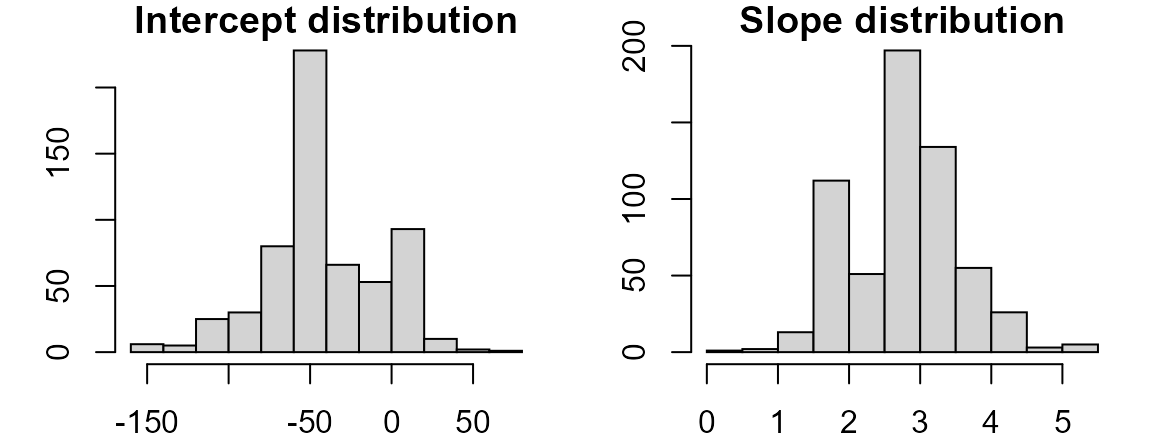
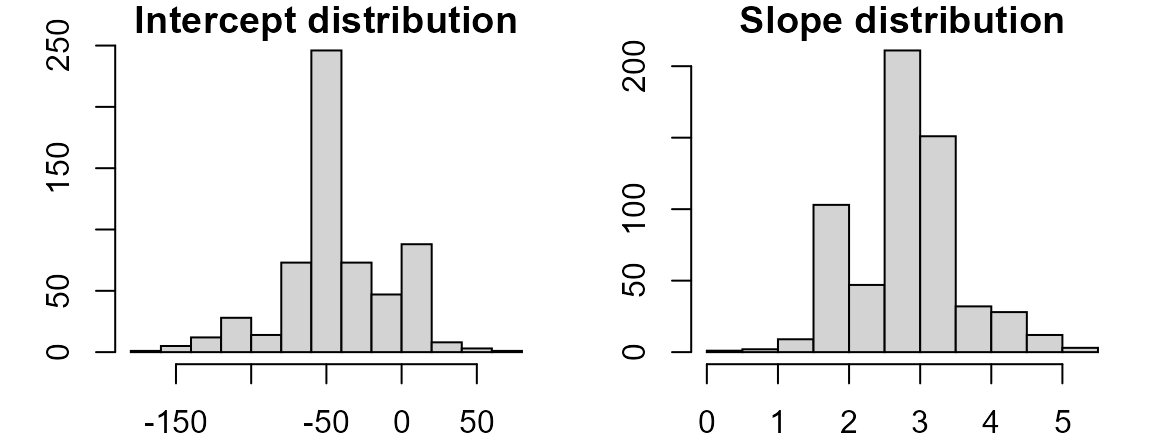
Edited Description

diff --git a/docs/articles/RLine.html b/docs/articles/RLine.html
@@ -282,9 +282,9 @@ median(y_{l,m,r} - b * x_{l,m,r})
 <code class="sourceCode R"><span class="va">conf</span> <span class="op">&lt;-</span> <span class="fu"><a href="https://rdrr.io/r/base/t.html" class="external-link">t</a></span><span class="op">(</span><span class="fu"><a href="https://rdrr.io/r/base/data.frame.html" class="external-link">data.frame</a></span><span class="op">(</span>Intercept <span class="op">=</span> <span class="fu"><a href="https://rdrr.io/r/stats/quantile.html" class="external-link">quantile</a></span><span class="op">(</span><span class="va">bt</span><span class="op">[</span>,<span class="fl">1</span><span class="op">]</span>, p<span class="op">=</span><span class="fu"><a href="https://rdrr.io/r/base/c.html" class="external-link">c</a></span><span class="op">(</span><span class="fl">0.05</span>,<span class="fl">0.95</span><span class="op">)</span> <span class="op">)</span>,
                      Slope <span class="op">=</span> <span class="fu"><a href="https://rdrr.io/r/stats/quantile.html" class="external-link">quantile</a></span><span class="op">(</span><span class="va">bt</span><span class="op">[</span>,<span class="fl">2</span><span class="op">]</span>, p<span class="op">=</span><span class="fu"><a href="https://rdrr.io/r/base/c.html" class="external-link">c</a></span><span class="op">(</span><span class="fl">0.05</span>,<span class="fl">0.95</span><span class="op">)</span> <span class="op">)</span><span class="op">)</span><span class="op">)</span>
 <span class="va">conf</span>
-<span class="co">#&gt;                    5%       95%</span>
-<span class="co">#&gt;  Intercept -74.612601 13.226140</span>
-<span class="co">#&gt;  Slope       1.671648  3.514979</span></code></pre></div>
+<span class="co">#&gt;                    5%      95%</span>
+<span class="co">#&gt;  Intercept -75.434634 4.301487</span>
+<span class="co">#&gt;  Slope       1.818326 3.512758</span></code></pre></div>
 </div>
 <div class="section level3">
 <h3 id="resampling-the-x-y-paired-values">Resampling the x-y paired values<a class="anchor" aria-label="anchor" href="#resampling-the-x-y-paired-values"></a>
@@ -310,8 +310,8 @@ median(y_{l,m,r} - b * x_{l,m,r})
                      Slope <span class="op">=</span> <span class="fu"><a href="https://rdrr.io/r/stats/quantile.html" class="external-link">quantile</a></span><span class="op">(</span><span class="va">bt</span><span class="op">[</span>,<span class="fl">2</span><span class="op">]</span>, p<span class="op">=</span><span class="fu"><a href="https://rdrr.io/r/base/c.html" class="external-link">c</a></span><span class="op">(</span><span class="fl">0.05</span>,<span class="fl">0.95</span><span class="op">)</span> <span class="op">)</span><span class="op">)</span><span class="op">)</span>
 <span class="va">conf</span>
 <span class="co">#&gt;                     5%       95%</span>
-<span class="co">#&gt;  Intercept -108.353664 12.110826</span>
-<span class="co">#&gt;  Slope        1.643678  4.157895</span></code></pre></div>
+<span class="co">#&gt;  Intercept -111.665895 12.942529</span>
+<span class="co">#&gt;  Slope        1.643678  4.315789</span></code></pre></div>
 </div>
 </div>
 <div class="section level1">
